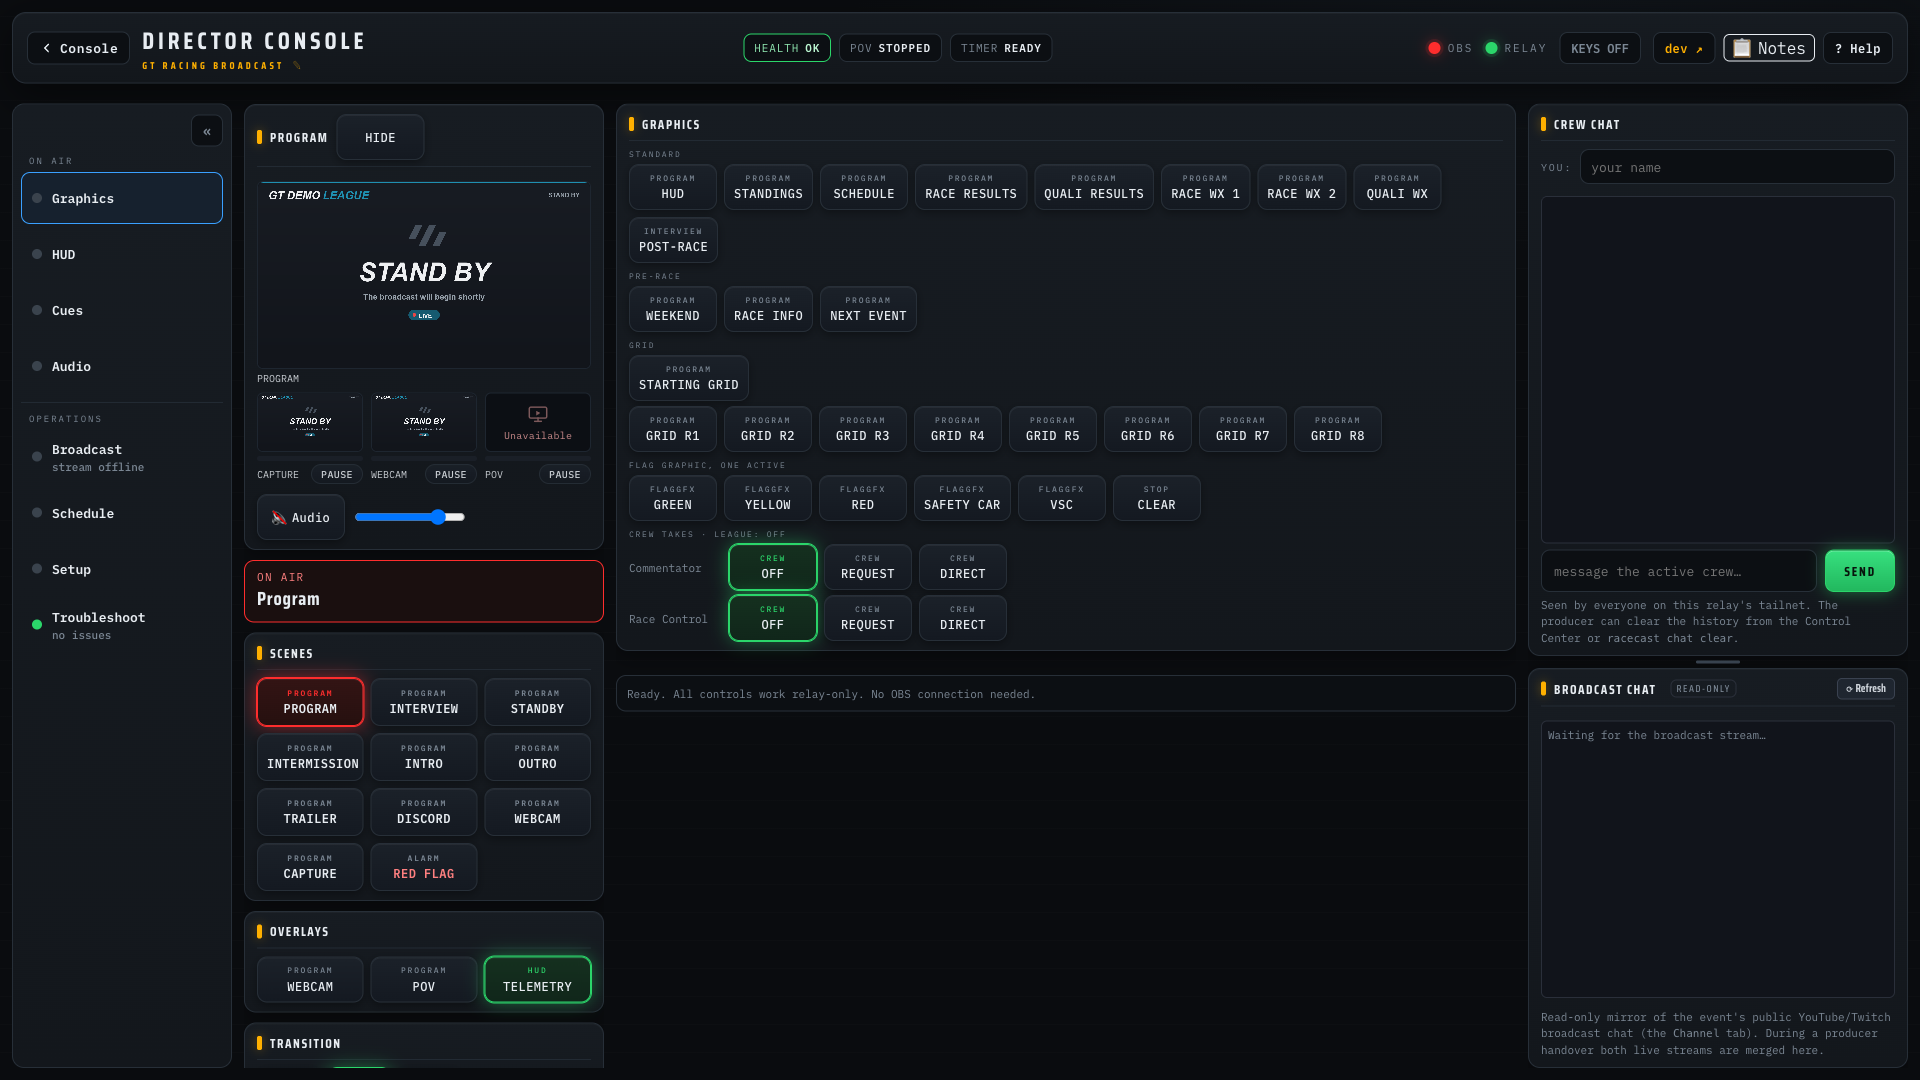
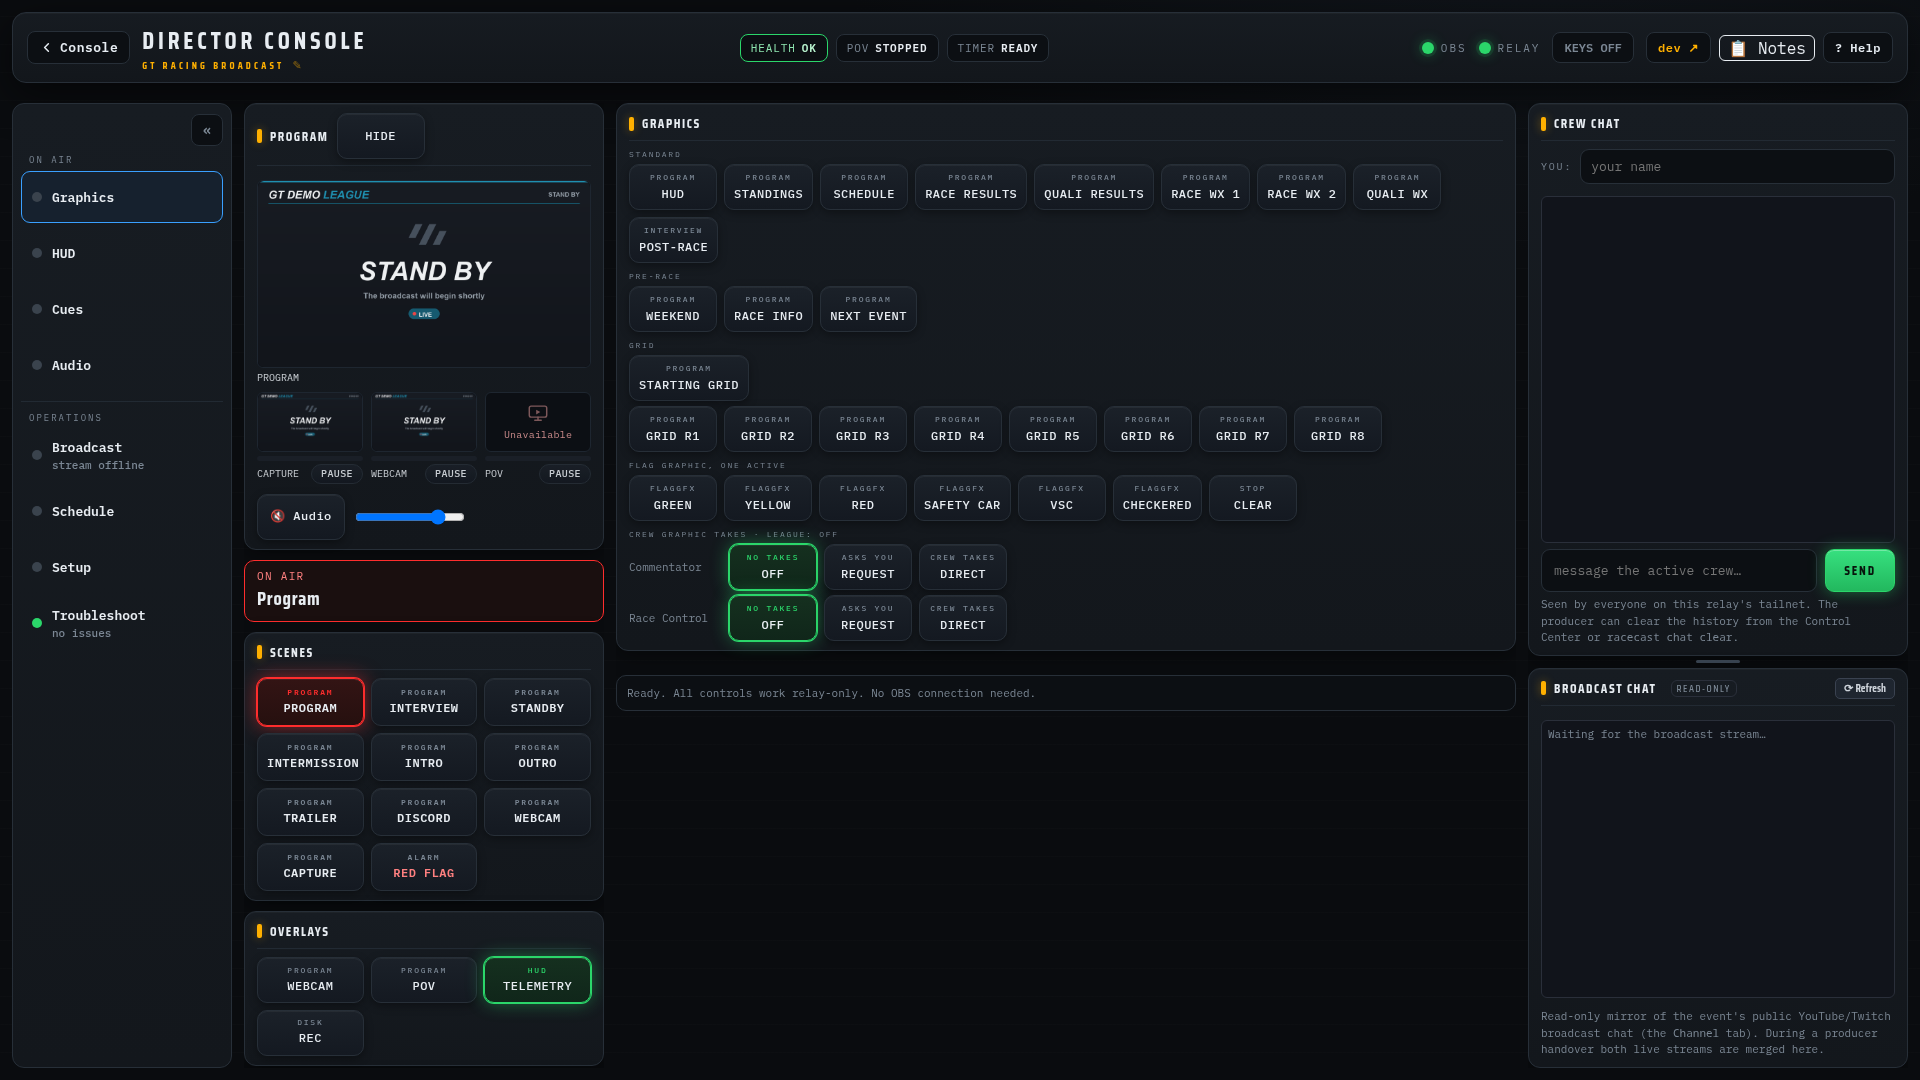
fix(panel): refresh the solo panel screenshot and test the REC key (#786)

diff --git a/src/director/director-panel.html b/src/director/director-panel.html
@@ -155,6 +155,7 @@
   button.k:disabled{opacity:.35;cursor:not-allowed}
   button.k .tag{display:block;font-size:8px;letter-spacing:.22em;text-transform:uppercase;color:var(--muted);margin-bottom:4px}
   button.k .cost{display:block;font-size:9px;font-weight:400;color:var(--amber);margin-top:3px}
+  button.k .cost[hidden]{display:none}  /* author display:block above beats the UA [hidden] rule */
   button.k.on{border-color:var(--live);background:linear-gradient(180deg,#15301f,#10261a);
     box-shadow:0 0 0 1px var(--live),0 0 18px var(--live-glow),inset 0 1px 0 rgba(255,255,255,.06)}
   button.k.on .tag{color:var(--live)}
@@ -2101,6 +2102,7 @@ async function relayPoll(){
                   teleRecBtn.appendChild(cost); }
       cost.textContent = rec && rec.active && rec.since
         ? fmtDur(Date.now() / 1000 - rec.since) : "";
+      cost.hidden = !cost.textContent;
     }
     const car = d.telemetry && d.telemetry.car;   // the GT7 car the driver is in (#713)
     $("#stCar").hidden = !car;

diff --git a/tests/test_director_panel.py b/tests/test_director_panel.py
@@ -353,6 +353,18 @@ def t_solo_telemetry_toggle():
     assert "teleVisBtn.hidden = !d.telemetry" in html
 
 
+def t_solo_telemetry_record_toggle():
+    # Solo POV: a REC key next to TELEMETRY starts/stops the GT7 recorder through
+    # the relay and reflects active/error state from /status.telemetry.record. (#785)
+    html = _html()
+    solo = _config_block(html, "CONFIG_SOLO")
+    solo = solo[solo.index("vis:"):solo.index("audio:")]
+    assert 'label:"REC"' in solo and 'relay:"telemetry/record"' in solo
+    assert "teleRecBtn.hidden = !rec" in html
+    assert 'teleRecBtn.classList.toggle("air", !!(rec && rec.active && !rec.error))' in html
+    assert 'teleRecBtn.classList.toggle("warn", !!(rec && rec.error))' in html
+
+
 def t_solo_status_strip_names_the_car():
     """The status strip shows the GT7 car from /status (telemetry.car), as text so a
     car name can never inject markup, and hides the pill without one. (#713)"""
